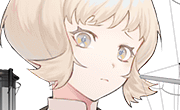
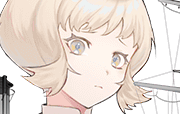
Update exslot equippability
* Update Norge icon
* Update B107 unlock

diff --git a/src/library/modules/Master.js b/src/library/modules/Master.js
@@ -634,14 +634,16 @@ Saves and loads significant data for future use
 			// to exclude gears like [33] Improved Kanhon Type Turbine
 			// since 2024-03-03, [524] Sec.Gun can be equipped in ex-slot for some AO without regular slots capability
 			//   and [524] can be equipped in ex-slot for LHA No.101 even banned specially by regular slots
-			// since 2024-05-29, [33] can be equipped by DE Inagi K2 in both slot types
+			// since 2024-05-29, [33] can be equipped by DE Inagi K2/Norge-class in both slot types
+			// since 2025-10-29, [226,227,488] DC can not be equipped by DE Norge-class in both slot types
 			if(equipTypesIncluded) {
 				if(equipOn.exslot) result |= 2;
 				// since 2023-11-02, some gears can be equipped in exslot only if specified stars met
 				if(equipOn.exslotMinStars > 0) {
 					if(gearStars !== undefined && gearStars < equipOn.exslotMinStars) return result;
 				}
-				if(Array.isArray(equipOn.exslotStypes) && equipOn.exslotStypes.includes(stype)) result |= 2;
+				if((result & 1) // exclude too if excluded by regular slot for stype case
+				&& Array.isArray(equipOn.exslotStypes) && equipOn.exslotStypes.includes(stype)) result |= 2;
 				if(Array.isArray(equipOn.exslotIncludes) && equipOn.exslotIncludes.includes(shipMstId)) result |= 2;
 			}
 			return result;
